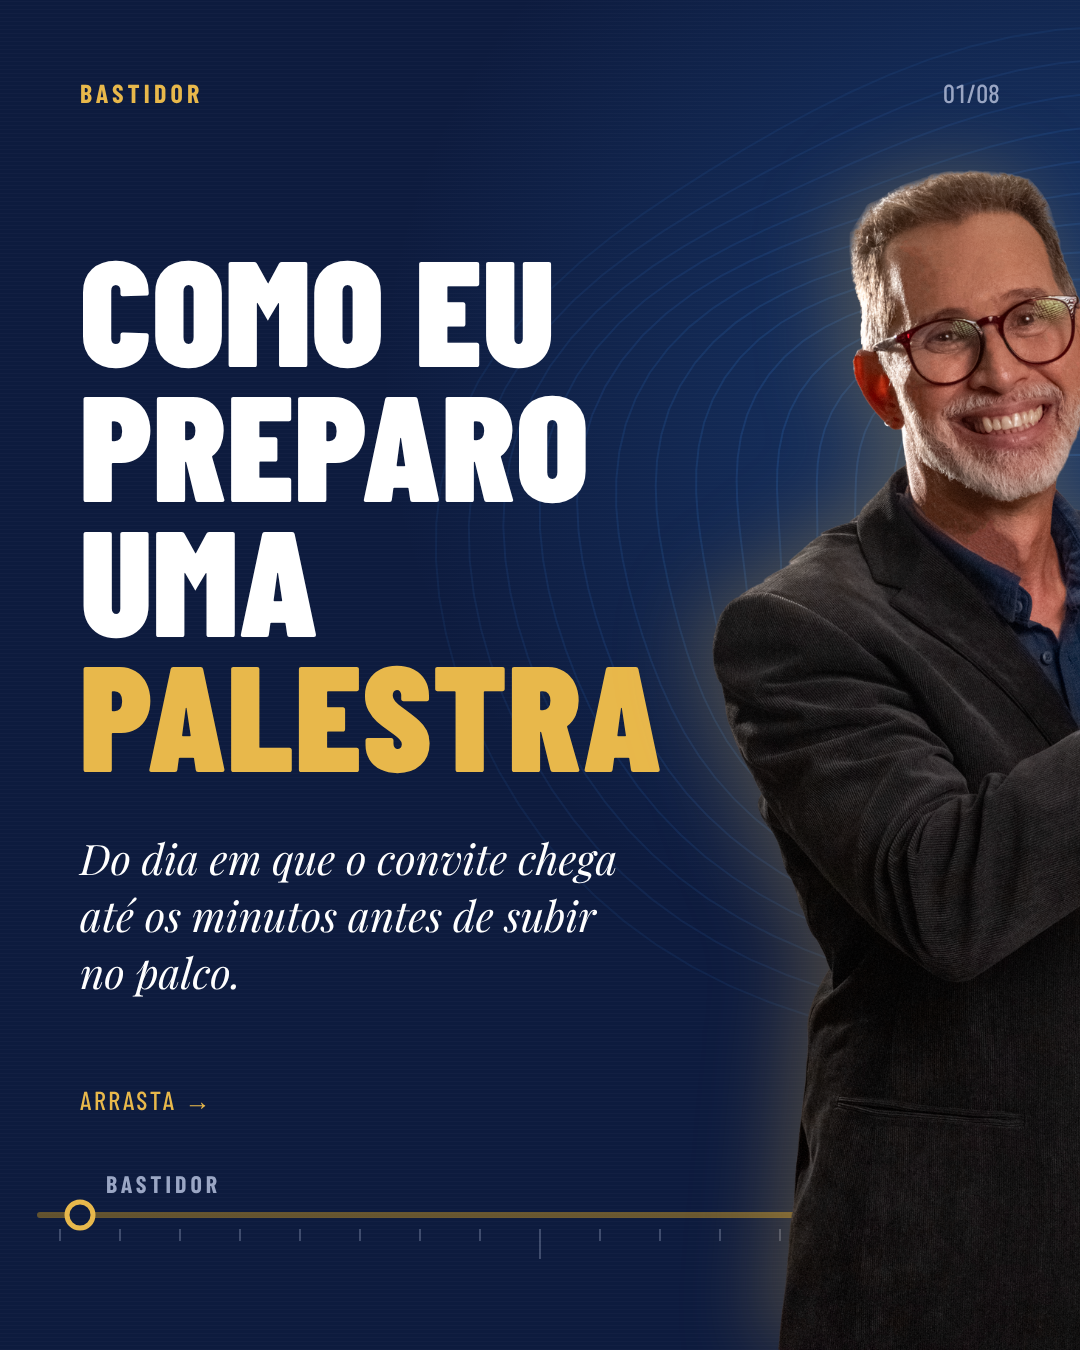
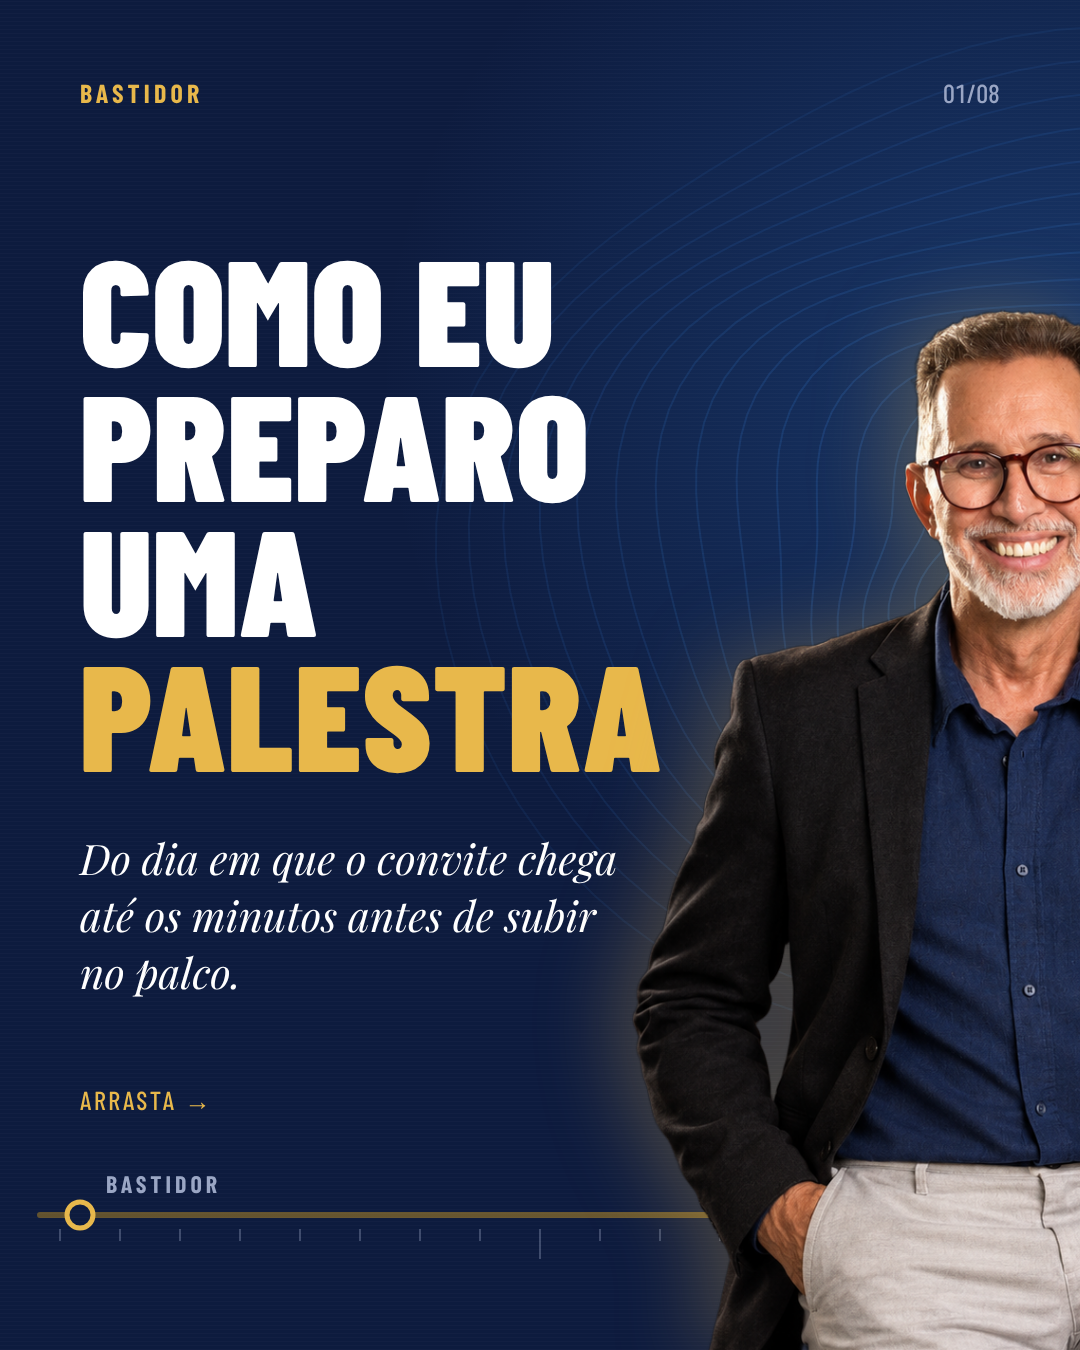
Troca a foto do Samuel pelo novo recorte (sentado)
Claude-Session: https://claude.ai/code/session_01KxJfMAnTDELMLnTQJRUUkL

Changed region(s): [[0.55, 0.1244, 1.0, 1.0]]

diff --git a/carrosseis/bastidor-samuel/marca.css b/carrosseis/bastidor-samuel/marca.css
@@ -8,14 +8,14 @@
 */
 :root{
   /* assets */
-  --foto-samuel: "assets/samuel.png";  /* recorte PNG transparente (FOTOS/DSC08059b, reduzido) */
+  --foto-samuel: "assets/samuel.png";  /* recorte PNG transparente (samuel-novo, sentado, cortado na coxa) */
   --logo:        "assets/logo.png";    /* LOGO HORIZONTAL 01 em Dourado Claro, versão para fundo escuro */
 
   /* enquadramento da foto (atravessa o corte 1→2; px reais do Instagram) */
-  --foto-left:   640px;
-  --foto-top:    170px;
-  --foto-width:  840px;
-  --foto-height: 1180px;               /* encosta no rodapé do slide */
+  --foto-left:   630px;
+  --foto-top:    250px;
+  --foto-width:  800px;
+  --foto-height: 1100px;               /* encosta no rodapé do slide */
 
   /* paleta do manual */
   --navy:#0D1B3E;        /* Navy Profundo · fundo */
